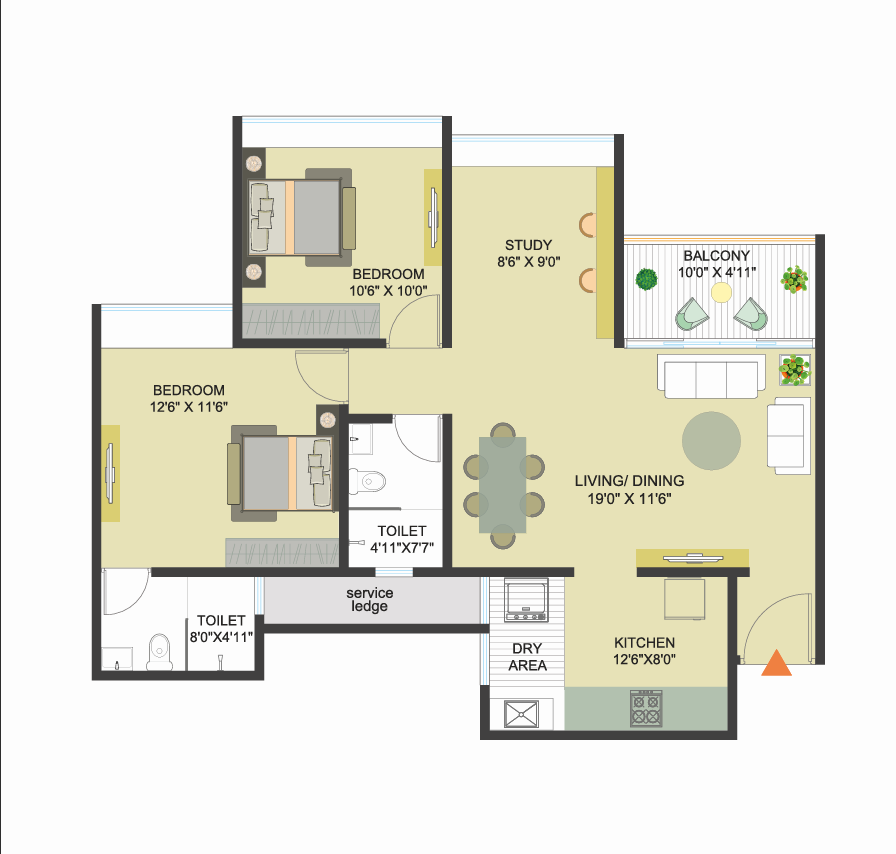
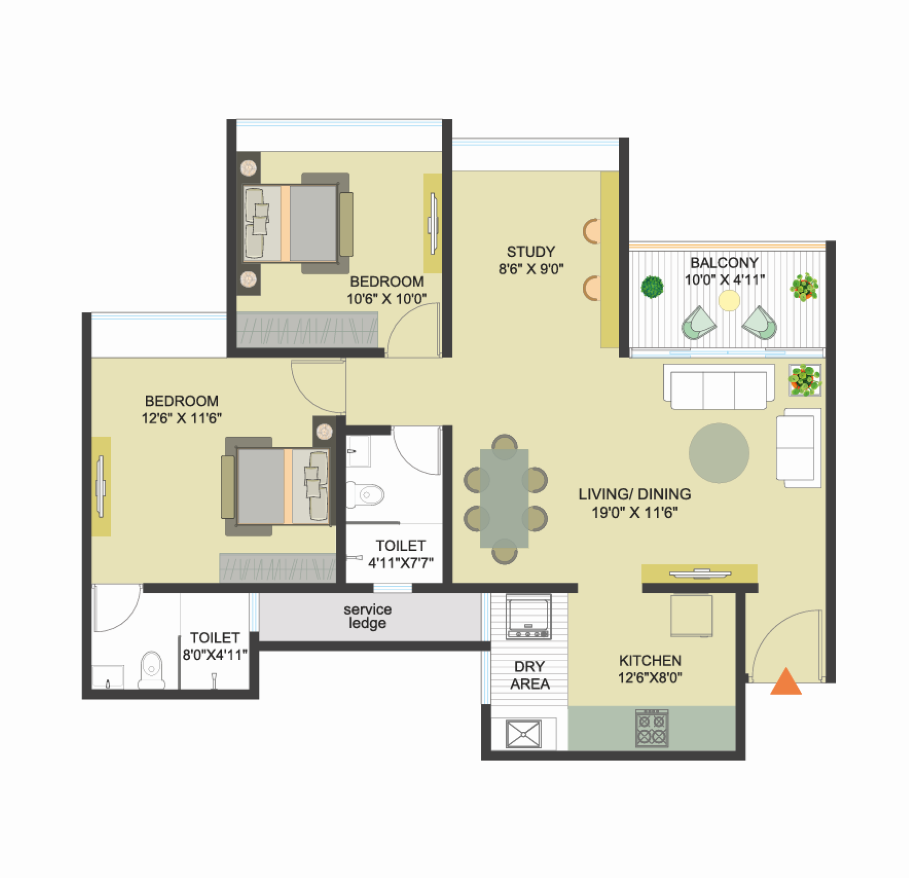
Live Push

diff --git a/index.html b/index.html
@@ -402,7 +402,7 @@
               <div class="portfolio-info">
                 <h4>3 Bhk Homes</h4>
                 <div class="portfolio-links">
-                  <a href="assets/img/portfolio/portfolio-3.jpg" data-gallery="portfolioGallery" class="portfolio-lightbox" title="3 Bhk Homes"><i class="bx bx-plus"></i></a>
+                  <a href="assets/img/3Bhk.png" data-gallery="portfolioGallery" class="portfolio-lightbox" title="3 Bhk Homes"><i class="bx bx-plus"></i></a>
                 </div>
               </div>
             </div>
@@ -439,10 +439,10 @@
 
       <div class="col-lg-4 col-md-6 portfolio-item filter-app">
         <div class="portfolio-wrap">
-          <img src="assets/img/Gallery/01.png" class="img-fluid" alt="">
+          <img src="assets/img/Gallery/02.png" class="img-fluid" alt="">
           <div class="portfolio-info">
             <div class="portfolio-links">
-              <a href="assets/img/Gallery/01.png" data-gallery="portfolioGallery" class="portfolio-lightbox"><i class="bx bx-plus"></i></a>
+              <a href="assets/img/Gallery/02.png" data-gallery="portfolioGallery" class="portfolio-lightbox"><i class="bx bx-plus"></i></a>
             </div>
           </div>
         </div>
@@ -505,7 +505,7 @@
 
       <div class="col-lg-4 col-md-6 portfolio-item filter-web">
         <div class="portfolio-wrap">
-          <img src="assets/img/Gallery/07.png" class="img-fluid" alt="">
+          <img src="assets/img/Gallery/06.png" class="img-fluid" alt="">
           <div class="portfolio-info">
             <div class="portfolio-links">
               <a href="assets/img/Gallery/07.png" data-gallery="portfolioGallery" class="portfolio-lightbox"><i class="bx bx-plus"></i></a>

diff --git a/specifications.html b/specifications.html
@@ -37,7 +37,7 @@
     <div class="container d-flex align-items-center justify-content-between">
 
       <!-- <h1 class="logo"><a href="index.html">Aishwaryam Future</a></h1> -->
-      <img class="logo" src="assets/img/GroupName.png" alt="Name">
+      <a class="nav-link scrollto active" href="index.html#hero"><img id="headerLogo" src="assets/img/GroupName.png" alt="Name"></a>
 
       <!-- Uncomment below if you prefer to use an image logo -->
       <!-- <a href="index.html" class="logo"><img src="assets/img/logo.png" alt="" class="img-fluid"></a>-->
@@ -87,7 +87,7 @@
             <div class="portfolio-description">
               <h1>Specifications</h1>
               <p>
-                <h4>STRUCTURE</h4>
+                <h3>STRUCTURE</h3>
                   <ul>
                       <li>Earthquake resistant RCC framed structure</li>
                   </ul>

diff --git a/amenities.html b/amenities.html
@@ -37,7 +37,7 @@
     <div class="container d-flex align-items-center justify-content-between">
 
       <!-- <h1 class="logo"><a href="index.html">Aishwaryam Future</a></h1> -->
-      <img class="logo" src="assets/img/GroupName.png" alt="Name">
+      <a class="nav-link scrollto active" href="index.html#hero"><img id="headerLogo" src="assets/img/GroupName.png" alt="Name"></a>
 
       <!-- Uncomment below if you prefer to use an image logo -->
       <!-- <a href="index.html" class="logo"><img src="assets/img/logo.png" alt="" class="img-fluid"></a>-->
@@ -88,7 +88,7 @@
             <div class="portfolio-description">
               <h1>Amenities</h1>
               <p>
-                <h4>STRUCTURE</h4>
+                <h3>STRUCTURE</h3>
                   <ul>
                       <li>Earthquake resistant RCC framed structure</li>
                   </ul>
